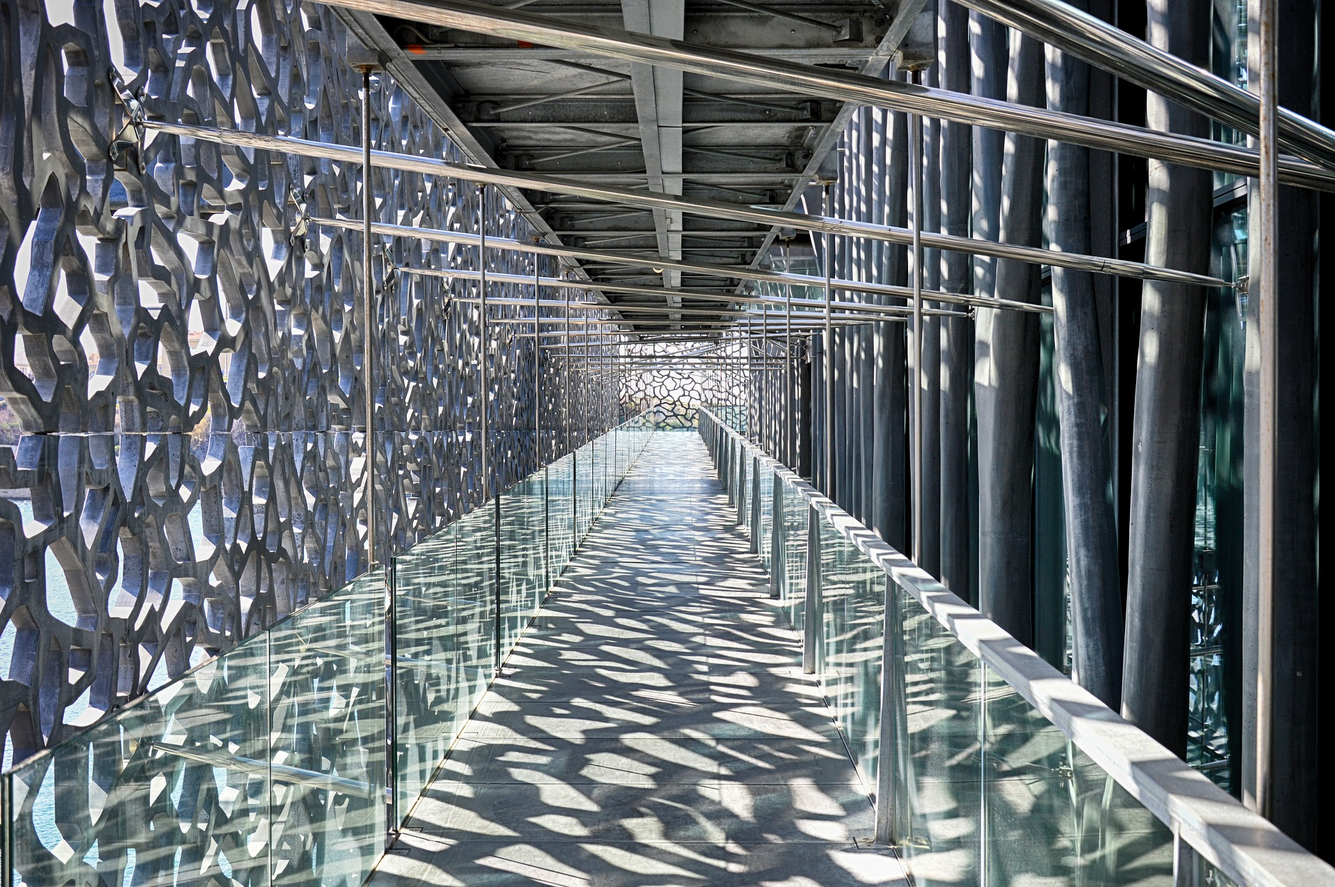
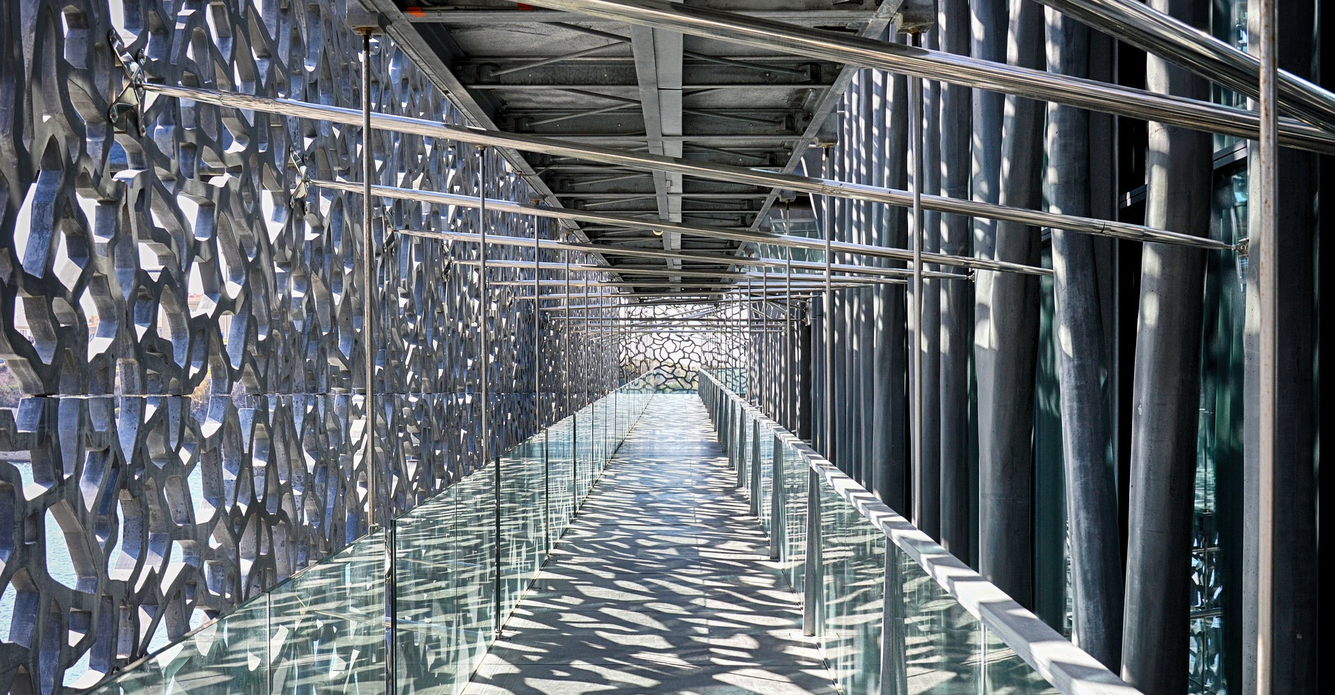
reb fixe la taille du slide sur sa branche et rajoute les photos grand et petit format

diff --git a/index.html b/index.html
@@ -57,37 +57,39 @@
     </nav>
 </div>
 <br />
-    <header>
-        <div id="carouselExampleControls" class="carousel slide" data-ride="carousel">
-            <div class="carousel-inner">
+    <header class="container-fluid fixcarrous">
+        
+            <div id="carouselExampleControls" class="carousel slide" data-ride="carousel">
+                <div class="carousel-inner">
 
-                <div class="carousel-item active">
-                    <img class="d-block w-100" src="assets/pictures/slide1_grand.jpg" alt="First slide">
-                </div>
+                    <div class="carousel-item active">
+                        <img class="d-block w-100 bonnetail" src="assets/pictures/slide1_grand.jpg" alt="First slide">
+                    </div>
+                    
+                    <div class="carousel-item">
+                        <img class="d-block w-100 bonnetail" src="assets/pictures/slide2_grand.jpg" alt="Second slide">
+                    </div>
                 
-                <div class="carousel-item">
-                    <img class="d-block w-100" src="assets/pictures/slide2_grand.jpg" alt="Second slide">
-                </div>
-            
-                <div class="carousel-item">
-                    <img class="d-block w-100" src="assets/pictures/slide3_grand.jpg" alt="Third slide">
-                </div>
+                    <div class="carousel-item">
+                        <img class="d-block w-100 bonnetail" src="assets/pictures/slide3_grand.jpg" alt="Third slide">
+                    </div>
 
-                <div class="carousel-item">
-                    <img class="d-block w-100" src="assets/pictures/slide4_grand.jpg" alt="Fourth slide">
+                    <div class="carousel-item">
+                        <img class="d-block w-100 bonnetail" src="assets/pictures/slide4_grand.jpg " alt="Fourth slide">
+                    </div>
                 </div>
+        
+                <a class="carousel-control-prev" href="#carouselExampleControls" role="button" data-slide="prev">
+                    <span class="carousel-control-prev-icon" aria-hidden="true"></span>
+                    <span class="sr-only">Previous</span>
+                </a>
+    
+                <a class="carousel-control-next" href="#carouselExampleControls" role="button" data-slide="next">
+                    <span class="carousel-control-next-icon" aria-hidden="true"></span>
+                    <span class="sr-only">Next</span>
+                </a>
             </div>
-       
-            <a class="carousel-control-prev" href="#carouselExampleControls" role="button" data-slide="prev">
-                <span class="carousel-control-prev-icon" aria-hidden="true"></span>
-                <span class="sr-only">Previous</span>
-            </a>
-   
-            <a class="carousel-control-next" href="#carouselExampleControls" role="button" data-slide="next">
-                <span class="carousel-control-next-icon" aria-hidden="true"></span>
-                <span class="sr-only">Next</span>
-            </a>
-        </div>
+        
   
     </header>
 

diff --git a/assets/css/main.css b/assets/css/main.css
@@ -139,3 +139,14 @@ hr{
 i{
     color:  #e8dac7;
 }
+
+/*taille carrousel*/
+
+.carousel-item {
+   object-fit: cover;
+}
+
+.fixcarrous {
+    margin: 0px;
+    padding: 0px;
+}
